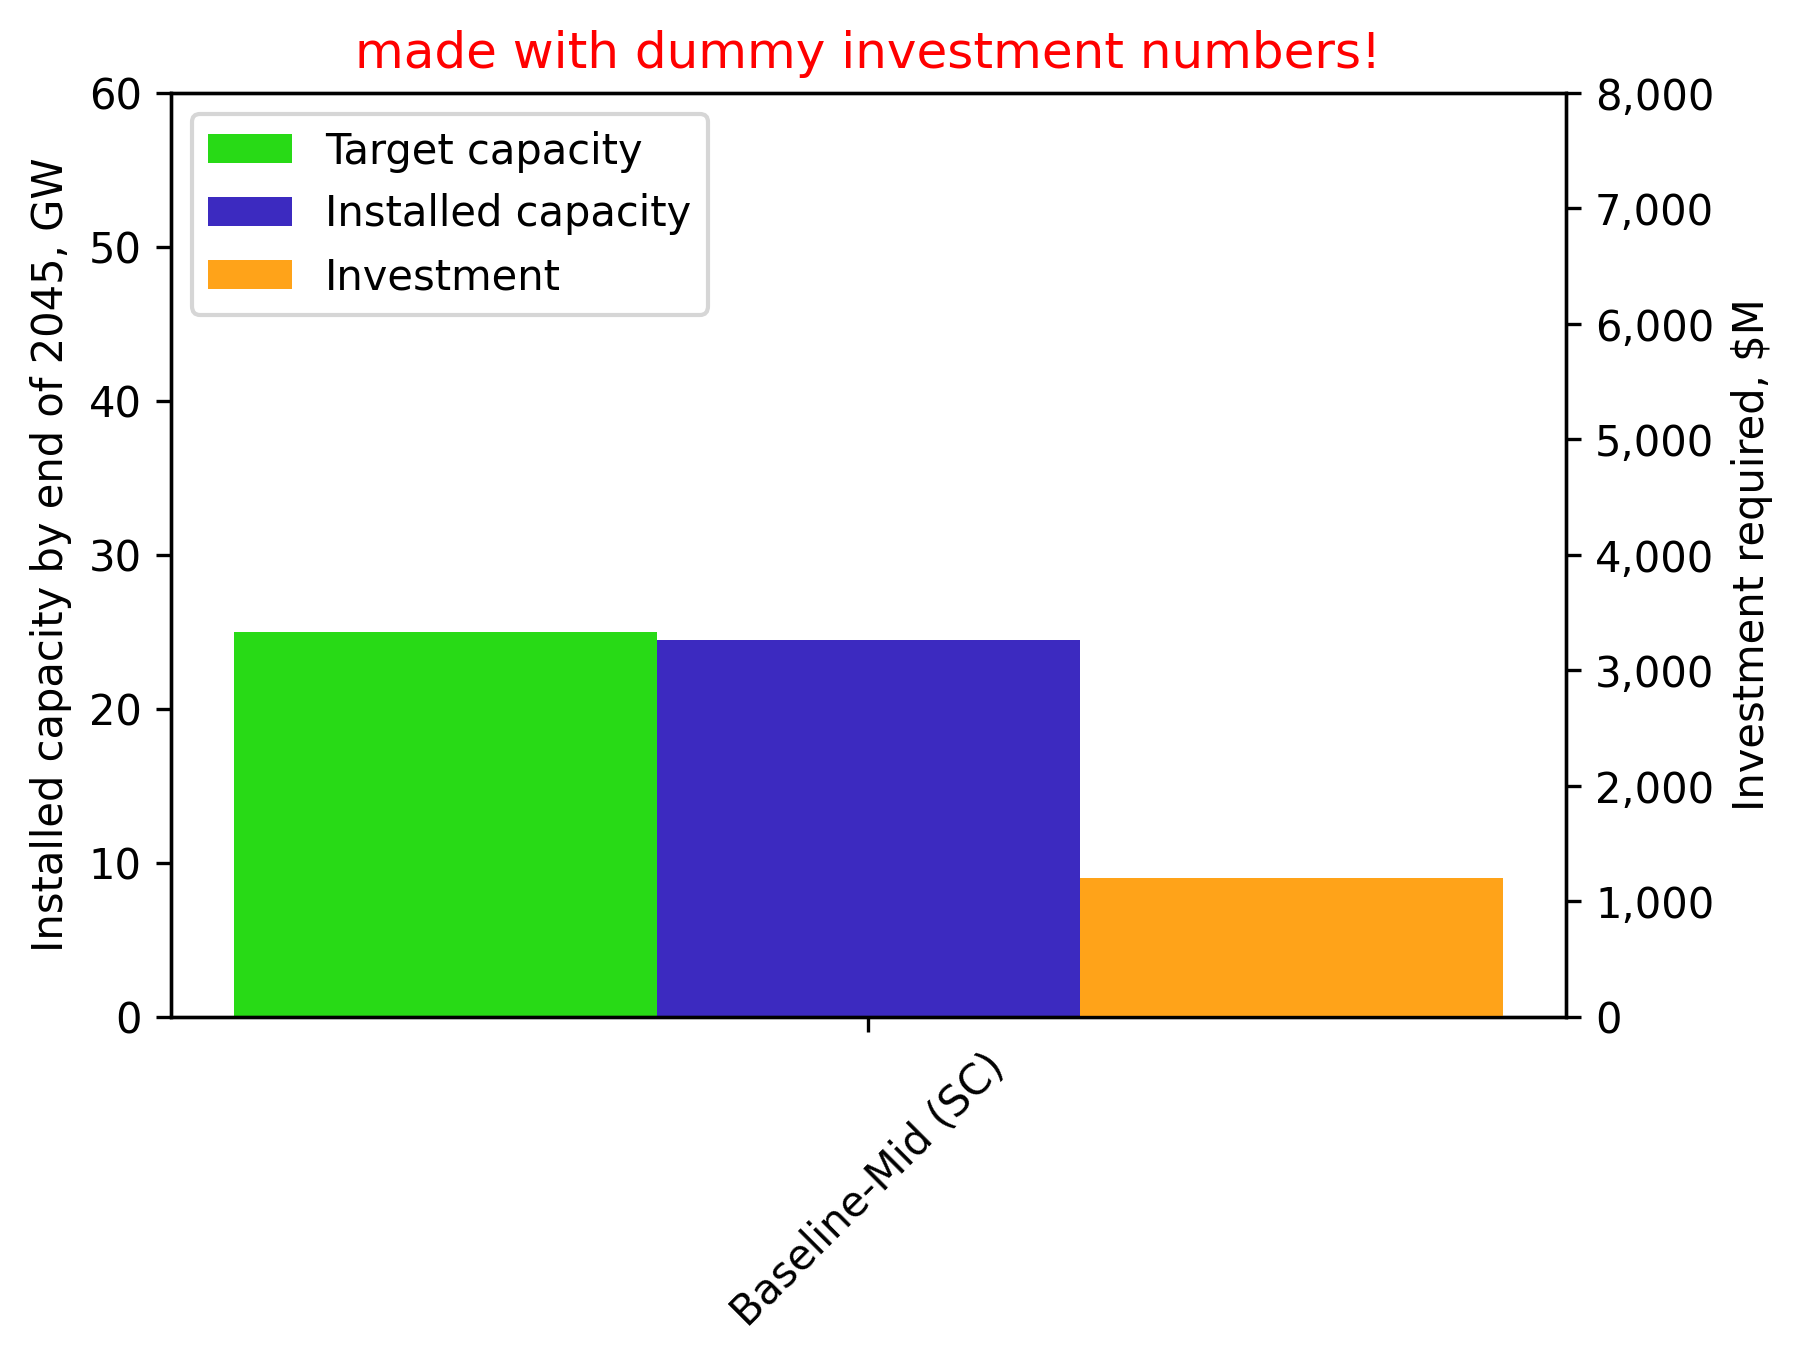
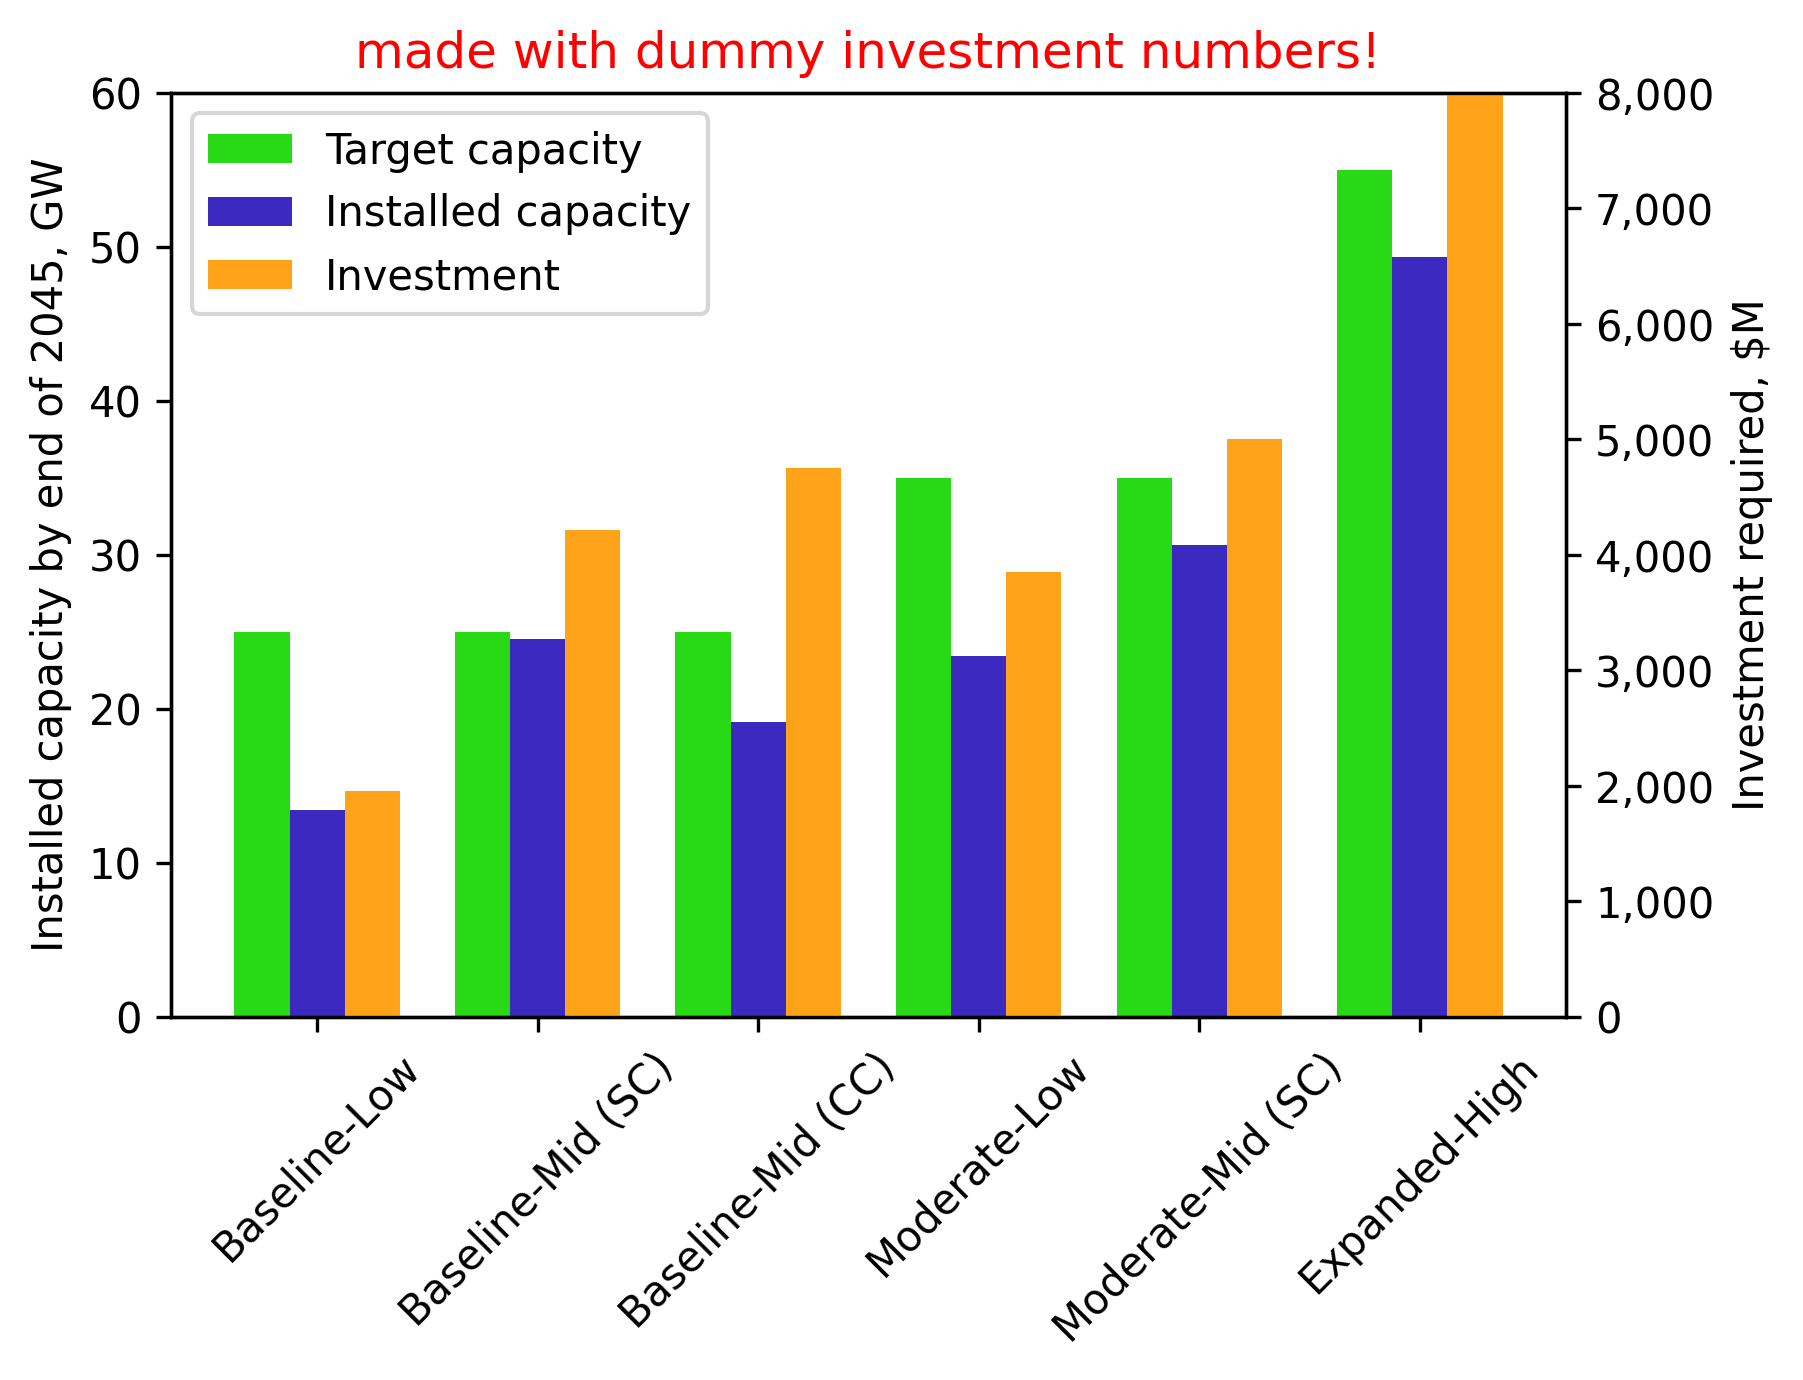
updated scenario investments

diff --git a/analysis/main.py b/analysis/main.py
@@ -15,8 +15,8 @@ from plot_routines import plot_gantt, plot_throughput, plot_gantt_nt, assign_col
 
 # Configure scenarios and keep_inputs
 projects = "library/pipeline/wc-pipeline.xlsx"
-#scenarios = ['Baseline-Low', 'Baseline-Mid (SC)', 'Baseline-Mid (CC)', 'Moderate-Low', 'Moderate-Mid (SC)', 'Expanded-High']
-scenarios = ['Baseline-Mid (SC)']
+scenarios = ['Baseline-Low', 'Baseline-Mid (SC)', 'Baseline-Mid (CC)', 'Moderate-Low', 'Moderate-Mid (SC)', 'Expanded-High']
+#scenarios = ['Baseline-Mid (SC)']
 base = "base.yaml"
 library_path = "library"
 weather_path = "library/weather/humboldt_weather_2010_2018.csv"
